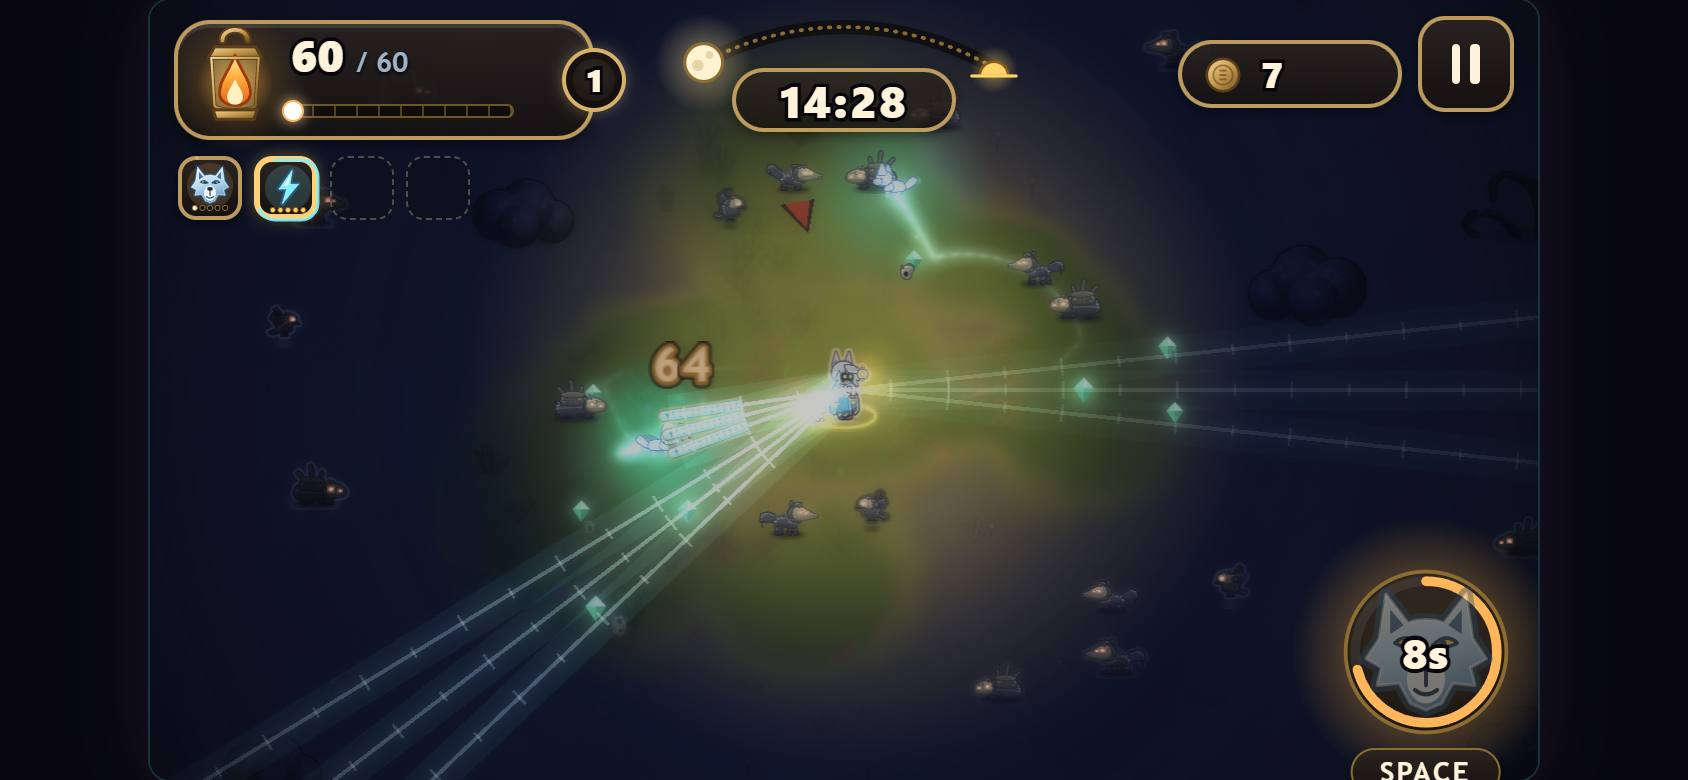
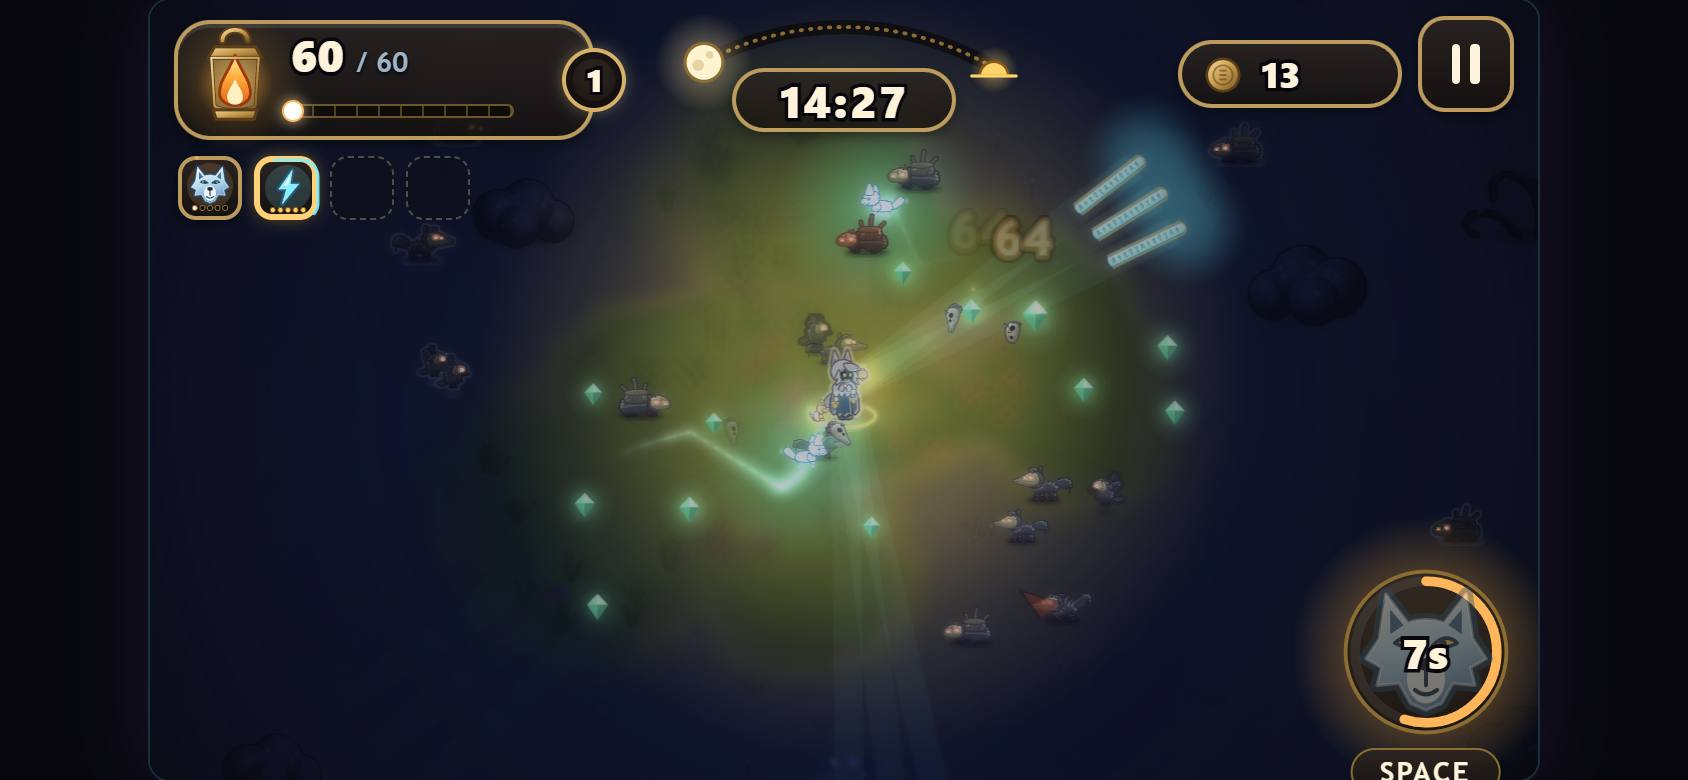
S5 fix: Soul Lance with glyph art drops the old white laser path + ticks (faint ink-cyan wash only); lance shots retaken

diff --git a/src/scenes/RunScene.js b/src/scenes/RunScene.js
@@ -1597,7 +1597,15 @@ export class RunScene extends Phaser.Scene {
     const thrCap = Math.round(caps.halos / 5), still = this.reducedMotion();
     // Soul Lance script lines: a thin glowing line along each lance's path that fades over 1.2 s (cores + faint ink ticks on Med/High; the core only on Low)
     const lw = sim.weapons.find((w2) => w2.id === 'spirit_bolts');
-    if (lw && lw.evo === 'soul_lance' && lw.rt.lines) {
+    if (lw && this.sumAtlas) bakeBoltArt(this.sumAtlas, lw.evo || null); // S5: lazy, idempotent (fast path once baked)
+    const glyphArt = !!this.sumAtlas && boltReady();
+    if (lw && lw.evo === 'soul_lance' && lw.rt.lines && glyphArt) { // S5 fix: with glyph art the capsule carries the lance; the path is only a faint ink-cyan wash (no white laser core, no ticks)
+      for (const ln of lw.rt.lines) {
+        const fade = ln.len < ln.max ? 1 : Math.max(0, 1 - ln.age / ln.ttl), ex = ln.x + Math.cos(ln.ang) * ln.len, ey = ln.y + Math.sin(ln.ang) * ln.len;
+        if (Math.max(ln.x, ex) < vx0 || Math.min(ln.x, ex) > vx1 || Math.max(ln.y, ey) < vy0 || Math.min(ln.y, ey) > vy1) continue;
+        fx.lineStyle(Math.max(3, ln.w), ROLE.bolt, 0.06 * fade).lineBetween(ln.x, ln.y, ex, ey);
+      }
+    } else if (lw && lw.evo === 'soul_lance' && lw.rt.lines) {
       for (const ln of lw.rt.lines) {
         const fade = ln.len < ln.max ? 1 : Math.max(0, 1 - ln.age / ln.ttl), cx = Math.cos(ln.ang), cy = Math.sin(ln.ang);
         const ex = ln.x + cx * ln.len, ey = ln.y + cy * ln.len;
@@ -1610,8 +1618,6 @@ export class RunScene extends Phaser.Scene {
         }
       }
     }
-    if (lw && this.sumAtlas) bakeBoltArt(this.sumAtlas, lw.evo || null); // S5: lazy, idempotent (fast path once baked)
-    const glyphArt = !!this.sumAtlas && boltReady();
     const gst = this.glyphSt || (this.glyphSt = new Map()), gdt = Math.max(0, Math.min(0.1, sim.time - (this.glyphT ?? sim.time))); this.glyphT = sim.time;
     const gO = glyphArt ? { pools: { glyph: pl.uGlyph, tail: pl.uGlyphT, rim: pl.uGlyphR, self: this.bloom ? pl.uGlyphL : null }, selfA: GLYPH_SELF, low: this.quality.tier === 'low', tier: this.quality.tier, phone: this.phone, calm: still, k: this.glyphK, dt: gdt, depth: 0, counts: { tails: 0, rims: 0 }, st: gst, tick: this.fxTick, fxg: fx } : null;
     if (glyphArt && lw && lw.evo === 'spirit_tempest') drawTornPages(sim.fx, pl.uTorn, D_LIT + p.y + 41, this.glyphK);
